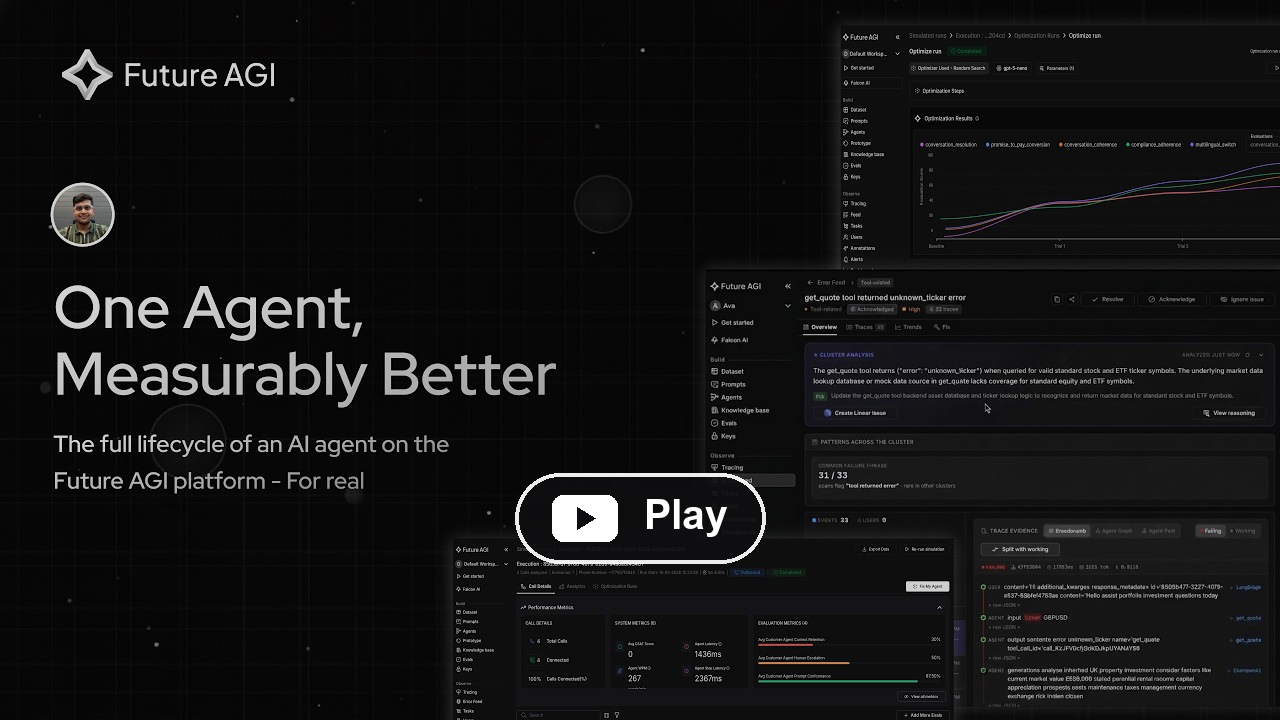
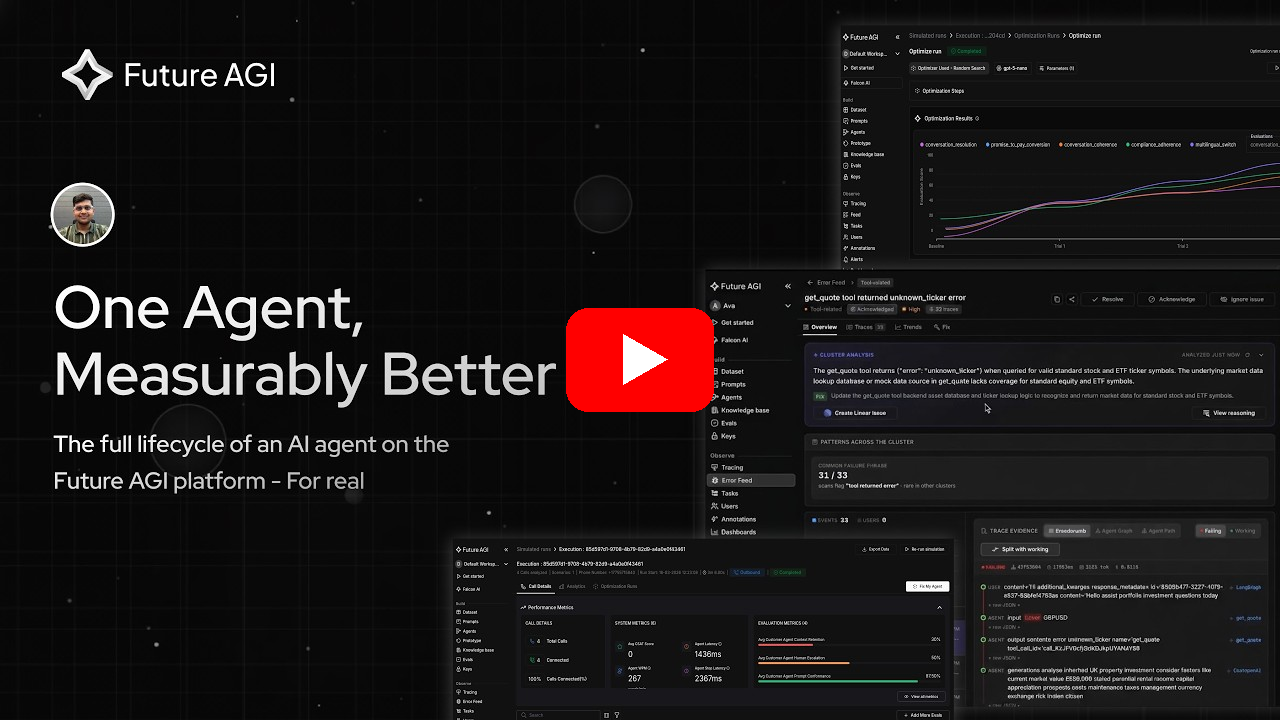
docs: use plain YouTube play button on demo thumbnail, full width
Drop the Play pill and scrim overlay in favour of the standard YouTube
play button on the clean still frame, and render the hero at full width
to match the logo banner above it.

diff --git a/README.md b/README.md
@@ -54,13 +54,13 @@
   Video: https://www.youtube.com/watch?v=6keOTAOUUWI
   GitHub's markdown sanitizer strips <iframe>/<video> but leaves the raw tag
   text behind, so an embed renders as a wall of markup on the repo page. We
-  use the video's still frame with a Play badge overlaid, linked to YouTube —
-  the same treatment PostHog uses. Asset: frontend/public/assets/readme/
-  demo-thumbnail.png (regenerate it whenever the demo video changes).
+  use the video's still frame with a YouTube play button on it, linked to the
+  video. Asset: frontend/public/assets/readme/demo-thumbnail.png — regenerate
+  it whenever the demo video changes.
 -->
 <div align="center">
   <a href="https://www.youtube.com/watch?v=6keOTAOUUWI">
-    <img alt="Watch the demo — trace an agent, run evals, simulate, and guardrail on one platform" src="frontend/public/assets/readme/demo-thumbnail.png" width="720">
+    <img alt="Watch the demo — trace an agent, run evals, simulate, and guardrail on one platform" src="frontend/public/assets/readme/demo-thumbnail.png" width="100%">
   </a>
 </div>
 
